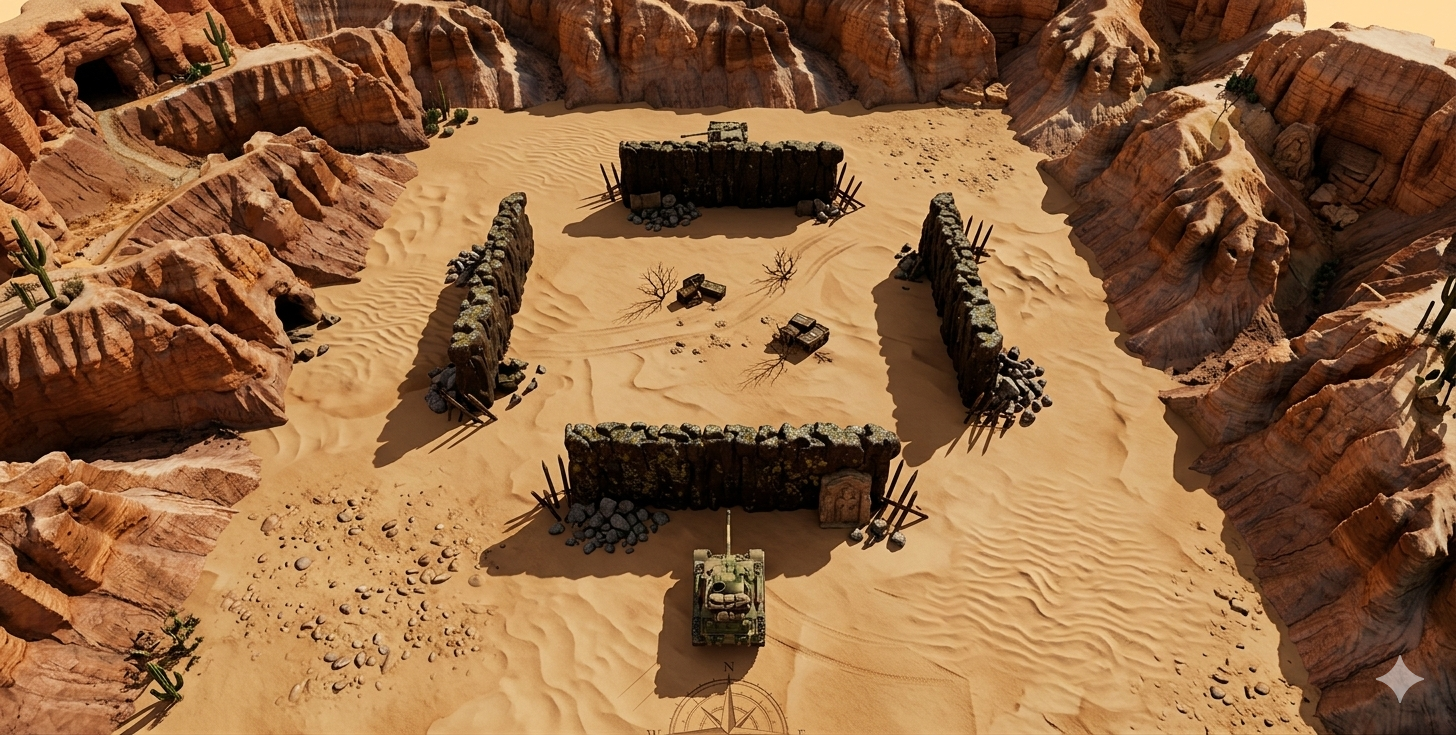
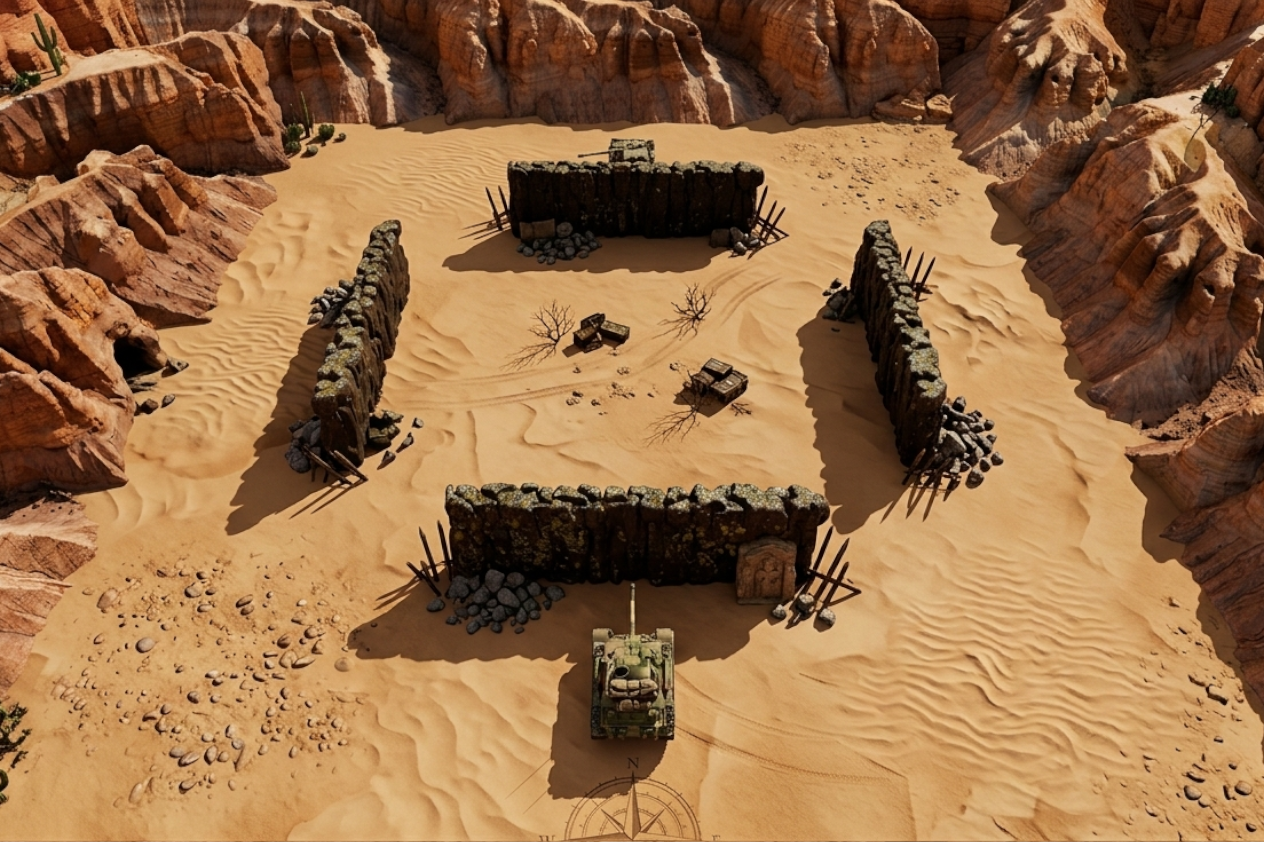
map preview pictur

diff --git a/backend/src/app/api/game/maps/desert-map-3.utils.ts b/backend/src/app/api/game/maps/desert-map-3.utils.ts
@@ -7,9 +7,9 @@ import { Scale } from '../../../common/models/scale.model';
 
 export function getDesertMap3(): GameMap {
   return {
-    id: 'desert3',
-    name: 'Desert 3',
-    pictureUrl: 'assets/pictures/map-desert-barricade.png',
+    id: 'canyonclash',
+    name: 'Canyon Clash',
+    pictureUrl: 'assets/pictures/map-canyon-clash.png',
     scale: {
       x: 110,
       y: 100,

diff --git a/backend/src/app/api/game/maps/map.utils.ts b/backend/src/app/api/game/maps/map.utils.ts
@@ -1,6 +1,6 @@
 import { GameMap } from '../../../common/models/game-map.model';
 import { getDesertBarricadeMap } from './desert-barricade-map.utils';
-import { getWastelandDivideMap } from './desert-map-2.utils';
+import { getWastelandDivideMap } from './wasteland-divide-map.utils';
 import { getDesertMap3 } from './desert-map-3.utils';
 import { getContainerMap } from './container-map.utils';
 